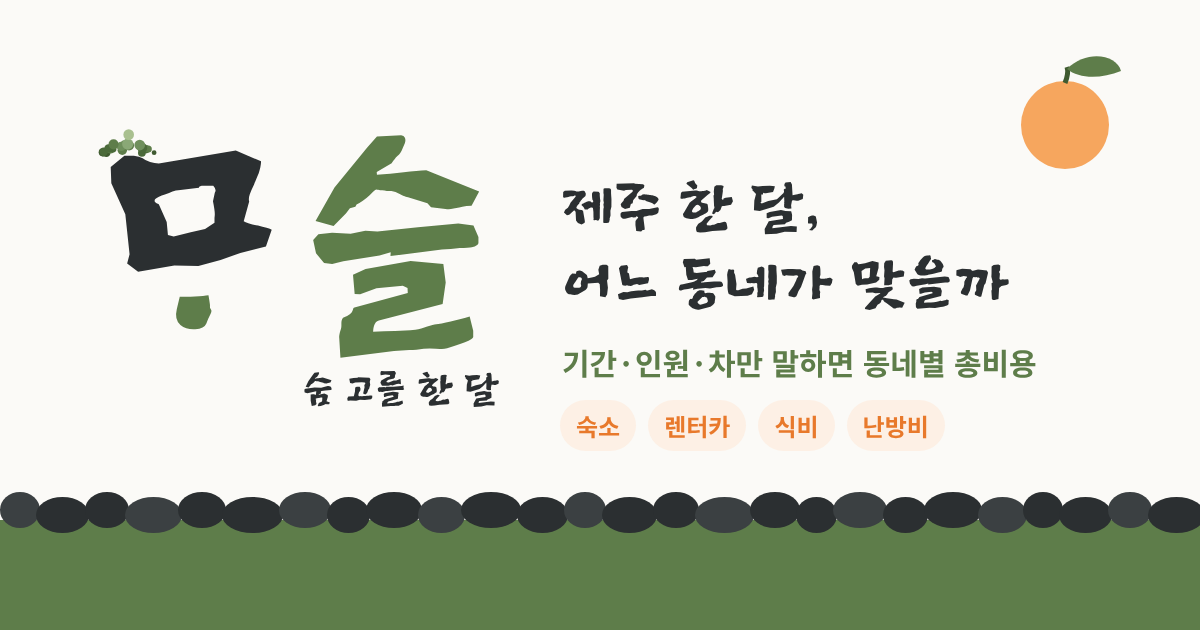
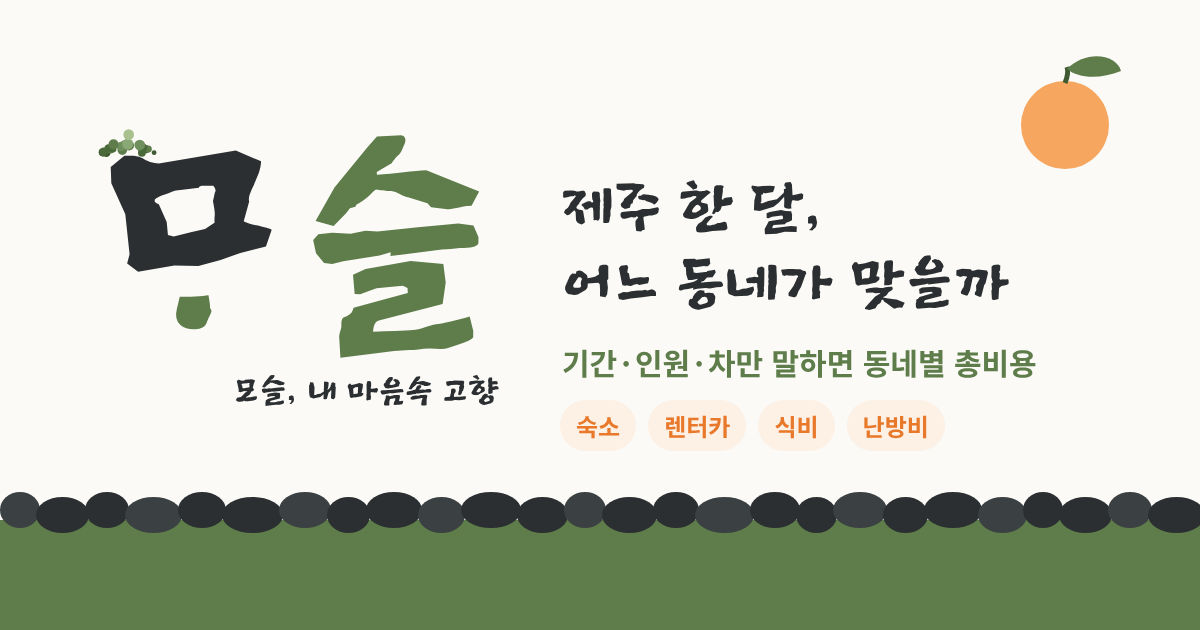
style: 슬로건을 '모슬, 내 마음속 고향'으로
- 로고 부제, 헤더, 공유 이미지(og-image), README 반영

Claude-Session: https://claude.ai/code/session_01XaypFCqbor5sgHwid7QUJY

Changed region(s): [[0.185, 0.573, 0.4317, 0.6635]]

diff --git a/frontend/index.html b/frontend/index.html
@@ -54,7 +54,7 @@
     <div class="wrap header-in">
       <div class="header-left">
         <button class="icon-btn" aria-label="메뉴"><svg class="ico"><use href="#i-menu"/></svg></button>
-        <a class="logo" href="#" aria-label="ᄆᆞ슬 홈"><!--LOGO--><svg xmlns="http://www.w3.org/2000/svg" viewBox="0 0 1660 960" role="img" aria-label="ᄆᆞ슬"><path transform="translate(-43.3 864.7) scale(1.2030 -1.2030)" d="M194 220 158 247 166 278 152 409 106 511 104 564 149 601Q156 601 164.0 601.5Q172 602 180 601Q199 599 209 593Q219 585 233.5 580.5Q248 576 262 576L515 619L598 583Q598 573 595.5 563.0Q593 553 590 543Q586 534 582.0 524.5Q578 515 575 507Q566 489 561.0 474.5Q556 460 559 451L541 386Q545 383 558.5 379.0Q572 375 588 372Q603 368 616.0 364.5Q629 361 633 358L614 303L530 282L465 259L392 239L313 241ZM292 341 311 336 367 350 414 361 445 381V395Q445 399 445.5 402.0Q446 405 446 410Q446 422 440 452L446 480Q453 490 441 503H403L398 501Q397 501 396 500Q394 498 394 496L333 489Q316 489 307 484Q297 479 282 474Q271 471 262.5 467.0Q254 463 250.5 459.0Q247 455 249.0 450.5Q251 446 262 442L288 384Z" fill="currentColor"/><path transform="translate(-11.9 1101.7) scale(0.8409 -0.8409)" d="M582 421Q589 414 579.5 396.0Q570 378 561 354Q551 329 509 327Q468 324 439 347Q410 373 422 421Q428 446 431.5 460.5Q435 475 436 479Q450 479 468.0 479.0Q486 479 507 481Q529 482 545.0 483.0Q561 484 571 486Q575 462 577.0 449.5Q579 437 578 434Q576 428 582 421Z" fill="#5e7d4a"/><path transform="translate(833.3 796.6) scale(0.9372 -0.9372)" d="M167 -153 162 -70Q161 -63 163.0 -53.0Q165 -43 169 -31Q171 -25 171.0 -19.0Q171 -13 171 -8Q171 -2 172.0 3.5Q173 9 178 16Q198 24 206.5 31.0Q215 38 217 44Q220 49 220.5 53.0Q221 57 226 59L451 120L450 142L430 151L319 140L250 115L227 116L220 197L273 222L463 255L601 243L611 165L598 74L329 5Q321 3 316.5 -2.5Q312 -8 309.5 -15.0Q307 -22 306.0 -29.5Q305 -37 305 -43Q328 -42 351.0 -41.0Q374 -40 397 -40Q419 -39 440.5 -38.0Q462 -37 483 -34Q495 -33 508.0 -29.0Q521 -25 533 -21Q545 -18 555.0 -14.5Q565 -11 571 -11Q577 -11 594.0 -8.0Q611 -5 632 0Q653 5 674.5 10.5Q696 16 712 21L727 -39V-65Q727 -73 692 -87Q675 -94 656.0 -100.0Q637 -106 617 -112Q607 -115 594.5 -115.5Q582 -116 569 -115Q543 -113 518 -115Q503 -118 487.5 -118.5Q472 -119 457 -120Q441 -121 425.0 -121.5Q409 -122 393 -124ZM664 414 728 405 749 357V331Q749 320 721 313Q716 312 702.0 311.5Q688 311 670 310Q652 308 632.0 306.5Q612 305 595 304L378 276L379 292L332 279L179 254L132 243L98 247L64 288L52 344L74 368L132 375L210 370L272 383L323 380L494 398ZM321 780 423 786Q435 785 439.0 775.0Q443 765 439 753L425 720Q421 713 418.5 709.5Q416 706 411 701Q407 698 404.0 695.0Q401 692 397 687Q394 683 390.0 678.5Q386 674 383 668L320 631L321 619Q348 621 377.0 623.5Q406 626 434 630Q462 633 486.5 635.0Q511 637 529 638L752 548L720 488Q696 487 681.5 484.0Q667 481 656 479Q644 476 633.0 474.5Q622 473 610 475L549 482L534 499L452 524Q447 524 442.5 526.0Q438 528 434 529Q429 531 425.0 533.5Q421 536 417 538Q408 542 399.5 546.0Q391 550 382 551Q367 549 353 553Q348 553 343.5 553.5Q339 554 335 554Q330 555 326.0 555.5Q322 556 318 557Q315 557 307.0 549.5Q299 542 289 532Q276 520 261.5 509.5Q247 499 235 494L230 484L207 478L190 456L138 403L62 424L142 565L280 734Z" fill="#5e7d4a"/><circle cx="205.1" cy="129.9" r="15.5" fill="#4b6a3a"/><circle cx="64.7" cy="129.6" r="16.5" fill="#3f5a30"/><circle cx="253.4" cy="129.0" r="9.4" fill="#3f5a30"/><circle cx="52.3" cy="128.7" r="15.1" fill="#3f5a30"/><circle cx="50.3" cy="127.9" r="16.0" fill="#3f5a30"/><circle cx="54.1" cy="125.2" r="16.7" fill="#4b6a3a"/><circle cx="127.7" cy="119.5" r="18.6" fill="#5e7d4a"/><circle cx="220.9" cy="115.9" r="16.1" fill="#4b6a3a"/><circle cx="90.5" cy="115.7" r="11.1" fill="#4b6a3a"/><circle cx="81.3" cy="115.2" r="16.8" fill="#5e7d4a"/><circle cx="230.3" cy="114.5" r="14.1" fill="#5e7d4a"/><circle cx="90.9" cy="114.3" r="13.7" fill="#4b6a3a"/><circle cx="73.2" cy="112.2" r="16.7" fill="#4b6a3a"/><circle cx="219.3" cy="112.2" r="13.1" fill="#5e7d4a"/><circle cx="206.8" cy="110.7" r="19.4" fill="#4b6a3a"/><circle cx="123.7" cy="104.3" r="18.3" fill="#6f8f5c"/><circle cx="154.4" cy="100.6" r="19.8" fill="#5e7d4a"/><circle cx="196.5" cy="99.1" r="21.2" fill="#6f8f5c"/><circle cx="93.0" cy="96.3" r="19.8" fill="#5e7d4a"/><circle cx="137.0" cy="96.1" r="16.1" fill="#6f8f5c"/><circle cx="149.0" cy="95.3" r="22.1" fill="#8aa876"/><circle cx="152.9" cy="57.8" r="21.0" fill="#a9c08f"/></svg><!--/LOGO--><span class="logo-sub">[모슬] 숨 고를 한 달</span></a>
+        <a class="logo" href="#" aria-label="ᄆᆞ슬 홈"><!--LOGO--><svg xmlns="http://www.w3.org/2000/svg" viewBox="0 0 1660 960" role="img" aria-label="ᄆᆞ슬"><path transform="translate(-43.3 864.7) scale(1.2030 -1.2030)" d="M194 220 158 247 166 278 152 409 106 511 104 564 149 601Q156 601 164.0 601.5Q172 602 180 601Q199 599 209 593Q219 585 233.5 580.5Q248 576 262 576L515 619L598 583Q598 573 595.5 563.0Q593 553 590 543Q586 534 582.0 524.5Q578 515 575 507Q566 489 561.0 474.5Q556 460 559 451L541 386Q545 383 558.5 379.0Q572 375 588 372Q603 368 616.0 364.5Q629 361 633 358L614 303L530 282L465 259L392 239L313 241ZM292 341 311 336 367 350 414 361 445 381V395Q445 399 445.5 402.0Q446 405 446 410Q446 422 440 452L446 480Q453 490 441 503H403L398 501Q397 501 396 500Q394 498 394 496L333 489Q316 489 307 484Q297 479 282 474Q271 471 262.5 467.0Q254 463 250.5 459.0Q247 455 249.0 450.5Q251 446 262 442L288 384Z" fill="currentColor"/><path transform="translate(-11.9 1101.7) scale(0.8409 -0.8409)" d="M582 421Q589 414 579.5 396.0Q570 378 561 354Q551 329 509 327Q468 324 439 347Q410 373 422 421Q428 446 431.5 460.5Q435 475 436 479Q450 479 468.0 479.0Q486 479 507 481Q529 482 545.0 483.0Q561 484 571 486Q575 462 577.0 449.5Q579 437 578 434Q576 428 582 421Z" fill="#5e7d4a"/><path transform="translate(833.3 796.6) scale(0.9372 -0.9372)" d="M167 -153 162 -70Q161 -63 163.0 -53.0Q165 -43 169 -31Q171 -25 171.0 -19.0Q171 -13 171 -8Q171 -2 172.0 3.5Q173 9 178 16Q198 24 206.5 31.0Q215 38 217 44Q220 49 220.5 53.0Q221 57 226 59L451 120L450 142L430 151L319 140L250 115L227 116L220 197L273 222L463 255L601 243L611 165L598 74L329 5Q321 3 316.5 -2.5Q312 -8 309.5 -15.0Q307 -22 306.0 -29.5Q305 -37 305 -43Q328 -42 351.0 -41.0Q374 -40 397 -40Q419 -39 440.5 -38.0Q462 -37 483 -34Q495 -33 508.0 -29.0Q521 -25 533 -21Q545 -18 555.0 -14.5Q565 -11 571 -11Q577 -11 594.0 -8.0Q611 -5 632 0Q653 5 674.5 10.5Q696 16 712 21L727 -39V-65Q727 -73 692 -87Q675 -94 656.0 -100.0Q637 -106 617 -112Q607 -115 594.5 -115.5Q582 -116 569 -115Q543 -113 518 -115Q503 -118 487.5 -118.5Q472 -119 457 -120Q441 -121 425.0 -121.5Q409 -122 393 -124ZM664 414 728 405 749 357V331Q749 320 721 313Q716 312 702.0 311.5Q688 311 670 310Q652 308 632.0 306.5Q612 305 595 304L378 276L379 292L332 279L179 254L132 243L98 247L64 288L52 344L74 368L132 375L210 370L272 383L323 380L494 398ZM321 780 423 786Q435 785 439.0 775.0Q443 765 439 753L425 720Q421 713 418.5 709.5Q416 706 411 701Q407 698 404.0 695.0Q401 692 397 687Q394 683 390.0 678.5Q386 674 383 668L320 631L321 619Q348 621 377.0 623.5Q406 626 434 630Q462 633 486.5 635.0Q511 637 529 638L752 548L720 488Q696 487 681.5 484.0Q667 481 656 479Q644 476 633.0 474.5Q622 473 610 475L549 482L534 499L452 524Q447 524 442.5 526.0Q438 528 434 529Q429 531 425.0 533.5Q421 536 417 538Q408 542 399.5 546.0Q391 550 382 551Q367 549 353 553Q348 553 343.5 553.5Q339 554 335 554Q330 555 326.0 555.5Q322 556 318 557Q315 557 307.0 549.5Q299 542 289 532Q276 520 261.5 509.5Q247 499 235 494L230 484L207 478L190 456L138 403L62 424L142 565L280 734Z" fill="#5e7d4a"/><circle cx="205.1" cy="129.9" r="15.5" fill="#4b6a3a"/><circle cx="64.7" cy="129.6" r="16.5" fill="#3f5a30"/><circle cx="253.4" cy="129.0" r="9.4" fill="#3f5a30"/><circle cx="52.3" cy="128.7" r="15.1" fill="#3f5a30"/><circle cx="50.3" cy="127.9" r="16.0" fill="#3f5a30"/><circle cx="54.1" cy="125.2" r="16.7" fill="#4b6a3a"/><circle cx="127.7" cy="119.5" r="18.6" fill="#5e7d4a"/><circle cx="220.9" cy="115.9" r="16.1" fill="#4b6a3a"/><circle cx="90.5" cy="115.7" r="11.1" fill="#4b6a3a"/><circle cx="81.3" cy="115.2" r="16.8" fill="#5e7d4a"/><circle cx="230.3" cy="114.5" r="14.1" fill="#5e7d4a"/><circle cx="90.9" cy="114.3" r="13.7" fill="#4b6a3a"/><circle cx="73.2" cy="112.2" r="16.7" fill="#4b6a3a"/><circle cx="219.3" cy="112.2" r="13.1" fill="#5e7d4a"/><circle cx="206.8" cy="110.7" r="19.4" fill="#4b6a3a"/><circle cx="123.7" cy="104.3" r="18.3" fill="#6f8f5c"/><circle cx="154.4" cy="100.6" r="19.8" fill="#5e7d4a"/><circle cx="196.5" cy="99.1" r="21.2" fill="#6f8f5c"/><circle cx="93.0" cy="96.3" r="19.8" fill="#5e7d4a"/><circle cx="137.0" cy="96.1" r="16.1" fill="#6f8f5c"/><circle cx="149.0" cy="95.3" r="22.1" fill="#8aa876"/><circle cx="152.9" cy="57.8" r="21.0" fill="#a9c08f"/></svg><!--/LOGO--><span class="logo-sub">모슬, 내 마음속 고향</span></a>
       </div>
       <div class="header-right">
         <button class="pill-btn" data-open-agent>물어보기</button>

diff --git a/scripts/build_logo.py b/scripts/build_logo.py
@@ -118,7 +118,7 @@ def build(with_sub: bool, ink: str = BASALT) -> str:
     ]
     height = 960
     if with_sub:
-        parts.append(text_run("숨 고를 한 달", 1620, 1110, 150, ink))
+        parts.append(text_run("모슬, 내 마음속 고향", 1620, 1110, 130, ink))
         height = 1150
     return (f'<svg xmlns="http://www.w3.org/2000/svg" viewBox="0 0 1660 {height}" role="img" aria-label="ᄆᆞ슬">'
             f'{"".join(parts)}</svg>')

diff --git a/README.md b/README.md
@@ -1,6 +1,6 @@
 # ᄆᆞ슬 [모슬] — 제주 한달살이 동네별 비용 비교 Agent (`bang-aeo-hwae`)
 
-> **ᄆᆞ슬**은 제주어로 '마을'(중세국어 ᄆᆞᅀᆞᆶ → 제주어 ᄆᆞ슬 → 표준어 마을). 한 달 머물 ᄆᆞ슬을 고르는 서비스라는 뜻. 슬로건: "숨 고를 한 달".
+> **ᄆᆞ슬**은 제주어로 '마을'(중세국어 ᄆᆞᅀᆞᆶ → 제주어 ᄆᆞ슬 → 표준어 마을). 한 달 머물 ᄆᆞ슬을 고르는 서비스라는 뜻. 슬로건: "모슬, 내 마음속 고향".
 
 > **"1월부터 3개월, 둘이서, 차 없이, 월 300 이내"** 라고 말하면
 > 제주 동네별 **체류 총비용**(숙소·렌터카·식비·난방비)과 **생활환경**(교통·병원·날씨·한적함)을 계산해
